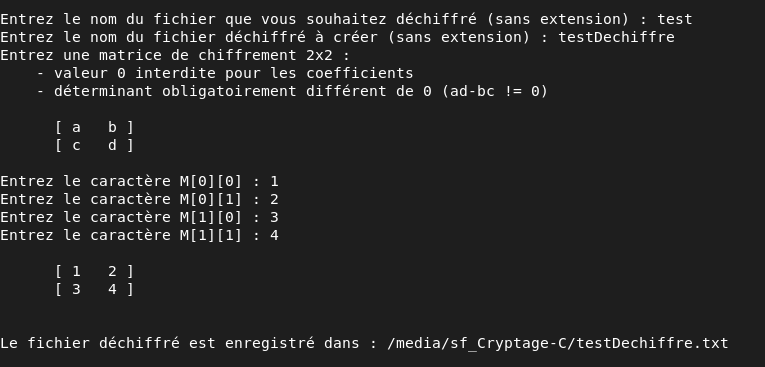
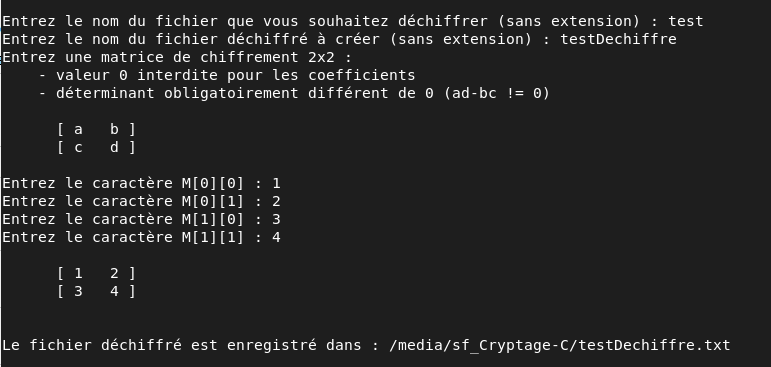
correction ortographe

diff --git a/chiffrement.c b/chiffrement.c
@@ -47,7 +47,7 @@ int isAffichableString(char * ch) {
 
 int ouvrirFichierClair(FILE** fic, char** ficPath) {
     size_t taille = 0;
-    printf("\nEntrez le nom du fichier que vous souhaitez chiffré (sans extension) : ");
+    printf("\nEntrez le nom du fichier que vous souhaitez chiffrer (sans extension) : ");
     //On récupère le nom du fichier
     if (getline(ficPath, &taille, stdin) == -1) {
         perror("\nErreur lors de la lecture du chemin du fichier ");
@@ -65,7 +65,7 @@ int ouvrirFichierClair(FILE** fic, char** ficPath) {
 
 int ouvrirFichierChiffre(FILE** fic, char** ficPath) {
     size_t taille = 0;
-    printf("\nEntrez le nom du fichier que vous souhaitez déchiffré (sans extension) : ");
+    printf("\nEntrez le nom du fichier que vous souhaitez déchiffrer (sans extension) : ");
     //On récupère le nom du fichier
     if (getline(ficPath, &taille, stdin) == -1) {
         perror("\nErreur lors de la lecture du chemin du fichier ");

diff --git a/hill.h b/hill.h
@@ -131,3 +131,4 @@ int entrerCleHill(int*** matrixKey);
 Nettoie la mémoire
 */
 void cleanUpHill(FILE* fic1, FILE* fic2, char* chaine1, char* chaine2, char* chaine3, int** matrixKey);
+

diff --git a/main.c b/main.c
@@ -23,8 +23,6 @@
 #include <stdio.h>
 #include <stdlib.h>
 #include <string.h>
-#include <wchar.h>
-#include <locale.h>
 
 #include "affichage.h"
 

diff --git a/README.md b/README.md
@@ -40,36 +40,36 @@ Si vous n'avez pas les droits pour éxécuter le fichier main (sous linux) :
 
 ## Règles
 
-1- Seul les carcatères ASCII de 32 à 127 sont autorisés (126 pour Hill).  
+1- Seuls les caractères ASCII de 32 à 127 sont autorisés (126 pour Hill).  
 
-2- Seul les fichiers textes peuvent être chiffrés, si l'extension de votre fichier n'est pas .txt, vous obtiendrez une erreur.  
+2- Seuls les fichiers textes peuvent être chiffrés, si l'extension de votre fichier n'est pas .txt, vous obtiendrez une erreur.  
 
-3- La matrice du chiffrement de Hill ne peut pas avoir un déterminant égal à 0.  
+3- La matrice clé du chiffrement de Hill ne peut pas avoir un déterminant égal à 0.  
 
 4- Si vous décryptez une chaine avec un nombre de caractères impair (ce qui ne vous arrivera normalement pas) avec le chiffrement de Hill, les deux derniers caractères ne seront pas déchiffrés correctement.
-## Demo
+## Demonstration
 
 ### Chiffrement d'une chaine (César)
 
-1- Choix du chiffrement  
+1- Choix du chiffrement
 ![image1](img-readme/demo1/1.png)
 
-2- Choix de l'action à réaliser  
+2- Choix de l'action à réaliser
 ![image2](img-readme/demo1/2.png)
 
-3- Entrée de la chaine à chiffrée et affichage  
+3- Entrée de la chaine par l'utilisateur et affichage
 ![image3](img-readme/demo1/3.png)
 
 
 ### Déchiffrement d'un fichier texte (Hill)
 
-1- Choix du chiffrement  
+1- Choix du chiffrement
 ![image1](img-readme/demo2/1.png)
 
-2- Choix de l'action à réaliser  
+2- Choix de l'action à réaliser
 ![image2](img-readme/demo2/2.png)
 
-3- Entrée de la matrice de chiffrement  
+3- Entrée de la matrice de chiffrement
 ![image3](img-readme/demo2/3.png)
 
 
@@ -106,7 +106,7 @@ Le chiffrement de César est un chiffrement par substitution monoalphabétique, 
   * NULL en cas d'erreur
 
 #### char dechiffrerCharCesar(char c, int cle)
-* Déchiffre un carctère avec le chiffrement de César
+* Déchiffre un caractère avec le chiffrement de César
 * Paramètres :
   * c : le caractère à déchiffrer
   * cle : la clé de chiffrement
@@ -320,7 +320,7 @@ Pour les fonctions qui suivent, on traitera chaque opération modulo 127 et non 
 127 étant un nombre premier :  
 * ∀ x ∈ ℤ/127ℤ, ∃ y ∈ ℤ/127ℤ tel que x*y = 1 mod 127  
 
-Autrement dit n'importe quel entier est inversible modulo 127 (sauf 0), donc une matrice sera forcément inversible sauf dans le cas où son déterminant est égal à 0. De plus, 127 étant un caractère non affichable, ce n'est pas embêtant qu'on ne puisse pas l'utiliser
+Autrement dit n'importe quel entier est inversible modulo 127 (sauf 0), donc une matrice sera forcément inversible sauf dans le cas où son déterminant est égal à 0. De plus, 127 étant un caractère non affichable, ce n'est pas embêtant qu'on ne puisse pas l'utiliser.
 
 #### char* chiffrerHill(char* chaine, int** matrixKey)
 * Chiffre une chaine avec le chiffrement de Hill
@@ -370,7 +370,7 @@ Autrement dit n'importe quel entier est inversible modulo 127 (sauf 0), donc une
 * Paramètre :
   * matrixKey : Matrice à inverser
 * Retour :
-  * L'inverse de la matrice matrixKey
+  * L'inverse de la matrice matrixKey modulo 127
 
 #### int chiffrerFichierHill()
 * Chiffre un fichier à l'aide du chiffrement de Hill
@@ -563,6 +563,13 @@ Autrement dit n'importe quel entier est inversible modulo 127 (sauf 0), donc une
 
 #### void chiffrementHill()
 * Exécute l'action sélectionnée au menu précédent à l'aide du chiffrement de Hill
+
+## Fabriqué avec
+
+* [Visual Studio Code](https://code.visualstudio.com/) : Editeur de texte.
+* [Valgrind](https://valgrind.org/) : Pour repérer les erreurs d'utilisation de la mémoire.
+* [VirtualBox](https://www.virtualbox.org/) : Machine virtuelle sous Linux pour gérer la compilation.
+
 ## Auteurs
 
 - [@Arthur-Bourgoin](https://github.com/Arthur-Bourgoin)
